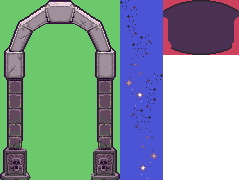
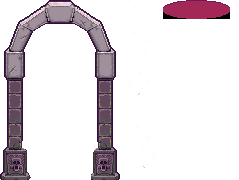
Title screen updates

diff --git a/core/src/main/java/com/pizenblues/pixeldungeon/scenes/TitleScene.java b/core/src/main/java/com/pizenblues/pixeldungeon/scenes/TitleScene.java
@@ -17,10 +17,16 @@
  */
 package com.pizenblues.pixeldungeon.scenes;
 
+import com.pizenblues.gltextures.Gradient;
+import com.pizenblues.gltextures.SmartTexture;
+import com.pizenblues.glwrap.Quad;
 import com.pizenblues.noosa.BitmapText;
 import com.pizenblues.noosa.Camera;
 import com.pizenblues.noosa.Game;
+import com.pizenblues.noosa.Group;
 import com.pizenblues.noosa.Image;
+import com.pizenblues.noosa.NoosaScript;
+import com.pizenblues.noosa.Visual;
 import com.pizenblues.noosa.audio.Music;
 import com.pizenblues.noosa.audio.Sample;
 import com.pizenblues.noosa.particles.BitmaskEmitter;
@@ -34,40 +40,80 @@ import com.pizenblues.pixeldungeon.effects.Speck;
 import com.pizenblues.noosa.particles.Emitter;
 import com.pizenblues.noosa.TouchArea;
 import com.pizenblues.input.Touchscreen.Touch;
+import com.pizenblues.utils.Point;
+import com.pizenblues.utils.Random;
+
+import java.nio.Buffer;
+import java.nio.FloatBuffer;
 
 public class TitleScene extends PixelScene {
 	private static final String TXT_PLAY		= "Tap to Start";
 	private static final String TXT_BUTTON = "";
-	private Image entranceImage;
 	private Emitter emitter;
-
+	private static final int FRAME_WIDTH	= 120;
+	private static final int FRAME_HEIGHT	= 180;
+	private static final int FRAME_PADDING	= 14;
+	private static final int ENTRANCE_W	= 79;
+	private static final int ENTRANCE_H	= 155;
+	private Camera viewport;
 
 	@Override
 	public void create() {
 		super.create();
-		Music.INSTANCE.play( Assets.THEME, true );
-		Music.INSTANCE.volume( 1f );
+		Music.INSTANCE.play(Assets.THEME, true);
+		Music.INSTANCE.volume(1f);
 		uiCamera.visible = false;
 
 		int w = Camera.main.width;
 		int h = Camera.main.height;
 		float padding = 24;
 
-		entranceImage = new Image(Assets.ENTRANCE);
-		entranceImage.x = (w - (entranceImage.width() * 0.7f)) / 2;
-		entranceImage.y = h/2.5f;
-		entranceImage.scale.set(0.7f);
-		add(entranceImage);
-		emitter = new BitmaskEmitter( entranceImage );
-		emitter.start( Speck.factory( Speck.LIGHT ), 0.05f, 100 );
-		add( emitter );
+		float entranceTrueHeight = ENTRANCE_H * 0.7f;
+		float entranceTrueWidth = ENTRANCE_W * 0.7f;
 
-		add( new TouchArea(entranceImage) {
-			protected void onClick( Touch touch ) {
+		// frame
+		float vx = align( (w - (entranceTrueWidth)) / 2 );
+		float vy = align( h / 2.5f);
+
+		Point s = Camera.main.cameraToScreen( vx, vy );
+		viewport = new Camera( s.x, s.y, ENTRANCE_W, Math.round(entranceTrueHeight), defaultZoom );
+		Camera.add( viewport );
+
+		Group window = new Group();
+		window.camera = viewport;
+		add( window );
+
+		entranceBackground entranceBg = new entranceBackground( true );
+		entranceBg.scale.set( entranceTrueWidth, entranceTrueHeight );
+		window.add( entranceBg );
+
+		Image floor = new Image( Assets.DOOR );
+		floor.frame( 163, 0, 66, 19 );
+		floor.scale.set(0.7f);
+		floor.x = (entranceTrueWidth - floor.width()) / 2;
+		floor.y = entranceTrueHeight - floor.height();
+		window.add( floor );
+
+		Stars stars = new Stars(10 );
+		window.add( stars );
+
+		Image frame = new Image( Assets.DOOR );
+		frame.frame( 0, 0, FRAME_WIDTH, FRAME_HEIGHT );
+		frame.scale.set(0.7f);
+		frame.x = vx - FRAME_PADDING;
+		frame.y = vy - FRAME_PADDING;
+		add( frame );
+
+		emitter = new BitmaskEmitter(frame);
+		emitter.start(Speck.factory(Speck.LIGHT), 0.05f, 50);
+		add(emitter);
+
+		add(new TouchArea(frame) {
+			protected void onClick(Touch touch) {
 				emitter.revive();
-				emitter.start( Speck.factory( Speck.LIGHT ), 0.05f, 7 );
-			};
-		} );
+				emitter.start(Speck.factory(Speck.LIGHT), 0.05f, 50);
+			}
+		});
 
 		Image title = BannerSprites.get( BannerSprites.Type.PIXEL_DUNGEON );
 		add( title );
@@ -86,7 +132,7 @@ public class TitleScene extends PixelScene {
 		DashboardItem btnBadges = new DashboardItem( TXT_BUTTON, 3 ) {
 			@Override
 			protected void onClick() {
-				PixelDungeon.switchNoFade( SurfaceScene.class );
+				PixelDungeon.switchNoFade( BadgesScene.class );
 			}
 		};
 		btnBadges.setPos( btnHighscores.right() + 12, h - padding);
@@ -102,7 +148,7 @@ public class TitleScene extends PixelScene {
 		add( btnAbout );
 
 		clickArea btnPlay = new clickArea( TXT_PLAY);
-		float playTextPosition = entranceImage.y + (entranceImage.height() * 0.7f) / 2;
+		float playTextPosition = frame.y + (frame.height() * 0.7f) / 2;
 		playTextPosition = PixelDungeon.landscape() ? h/2 : playTextPosition;
 		btnPlay.setPos( (w - btnPlay.width()) / 2, playTextPosition );
 		add( btnPlay );
@@ -205,6 +251,74 @@ public class TitleScene extends PixelScene {
 		protected void onTouchDown() {
 			Sample.INSTANCE.play(Assets.SND_CLICK, 1, 1, 0.8f);
 			PixelDungeon.switchNoFade( StartScene.class );
+		}
+	}
+
+	private static class entranceBackground extends Visual {
+		private static final int[] colors		= {0xFF000000, 0xFF751756};
+		private SmartTexture texture;
+		private FloatBuffer verticesBuffer;
+
+		public entranceBackground( boolean dayTime ) {
+			super( 0, 0, 1, 1 );
+
+			texture = new Gradient( colors );
+
+			float[] vertices = new float[16];
+			verticesBuffer = Quad.create();
+			vertices[2]		= 0.25f;
+			vertices[6]		= 0.25f;
+			vertices[10]	= 0.75f;
+			vertices[14]	= 0.75f;
+			vertices[3]		= 0;
+			vertices[7]		= 1;
+			vertices[11]	= 1;
+			vertices[15]	= 0;
+			vertices[0] 	= 0;
+			vertices[1] 	= 0;
+			vertices[4] 	= 1;
+			vertices[5] 	= 0;
+			vertices[8] 	= 1;
+			vertices[9] 	= 1;
+			vertices[12]	= 0;
+			vertices[13]	= 1;
+			((Buffer)verticesBuffer).position( 0 );
+			verticesBuffer.put( vertices );
+		}
+
+		@Override
+		public void draw() {
+			super.draw();
+			NoosaScript script = NoosaScript.get();
+			texture.bind();
+			script.camera( camera() );
+			script.uModel.valueM4( matrix );
+			script.lighting(
+					rm, gm, bm, am,
+					ra, ga, ba, aa );
+			script.drawQuad( verticesBuffer );
+		}
+	}
+
+	private static class Stars extends Image {
+		public Stars( float positionX) {
+			super( Assets.DOOR );
+			frame( 120, 0, 43, 180 );
+			this.x = positionX;
+
+			scale.set( 1 - positionX / ENTRANCE_W );
+			y = 0;
+			speed.y = 48;
+		}
+
+		@Override
+		public void update() {
+			super.update();
+			if (speed.y > 0 && y > ENTRANCE_H) {
+				y = -height();
+			} else if (speed.y < 0 && y < -height()) {
+				y = 100;
+			}
 		}
 	}
 }

diff --git a/core/src/main/java/com/pizenblues/pixeldungeon/Assets.java b/core/src/main/java/com/pizenblues/pixeldungeon/Assets.java
@@ -23,6 +23,7 @@ public class Assets {
 	public static final String DASHBOARD	= "dashboard.png";
 	public static final String BANNERS	= "banners.png";
 	public static final String ENTRANCE	= "entrance.png";
+	public static final String DOOR	= "door.png";
 	public static final String BADGES	= "badges.png";
 	public static final String LOCKED	= "locked_badge.png";
 	public static final String AMULET	= "amulet.png";
